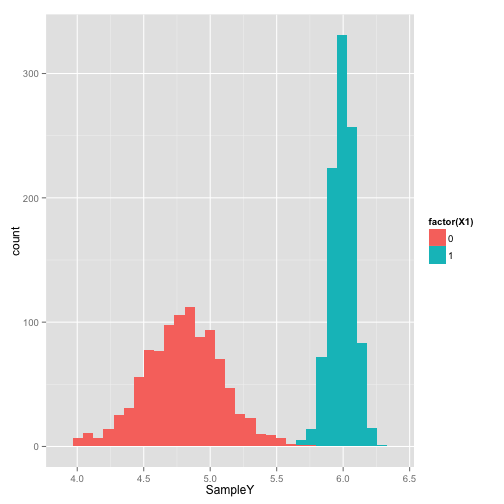
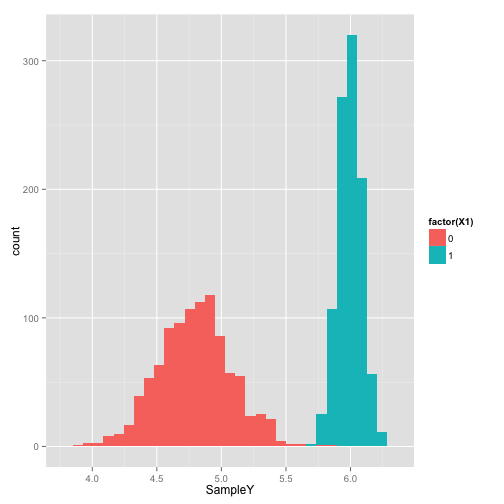
started writing. let's test latex

diff --git a/_layouts/post.html b/_layouts/post.html
@@ -1,8 +1,12 @@
 ---
 layout: layout
 ---
-
-<section class="content">
+<script type="text/x-mathjax-config">
+MathJax.Hub.Config({
+  tex2jax: {inlineMath: [['$','$'], ['\\(','\\)']]}
+});
+</script>
+<script type="text/javascript" src="path-to-mathjax/MathJax.js?config=TeX-AMS-MML_HTMLorMML"></script><section class="content">
   <h1>
     {{ page.title }}
   </h1>

diff --git a/_posts/2014-07-06-bart-machine-simple-examples-discrete.md b/_posts/2014-07-06-bart-machine-simple-examples-discrete.md
@@ -1,23 +1,26 @@
 ---
-title: "Bayesian Trees: Looking for Sensible Results in Simple Examples"
+title: "Bayesian Trees: Looking for Sensible Results in Simple Examples [source]()"
 layout: post
 category: posts
 draft: true
 ---
-  
 
 
 
-# Simplest possible example:
 
+The Bayesian Additive Regression Trees (BART) model consists of a sum of trees, along with values at the leaf notes. I'm attracted to the method as a way to obtain similar out-of-the-box (no hand tuning or model selection needed) performance to common machine learning methods (random forests, gradient boosting machines, etc.), but also provide **uncertainties** along with each individual prediction. BART is an MCMC method, meaning that we receive a series of draws from the posterior distribution, each of which is a set of tree structures along with values at the leaf nodes.
 
-```r
-set.seed(0)
-sigmaTrue <- 1
-train <- data.frame(X1 = sample(c(rep(0, 10), rep(1, 100))))
-test <- unique(train)
-y <- ifelse(train$X1 == 0, 5, 6) + rnorm(nrow(train)) * sigmaTrue
-```
+The purpose of this post is to explore how appropriate the resulting uncertainties seem in a few simple simulated examples where we know the truth. For this, I use the [`bartMachine`]() implementation by SOMEONE and SOMEONEELSE. The above description of the algorithm might be enough to follow along with this post, but I highly recommend reading at least the first page of the package authors' [vignette](), which provides a very clear description of the algorithm.
+
+### Simplest possible example:
+
+In this example, $X_1$ (which is $0$ for 10 observations and $1$ for 100) is the only input, and 
+
+$$y = X_1 + 5 + \mathcal{N}(0,1)$$
+
+The model assumes that the noise is independent of everything, which is consistent with the example. You can see that the mean of $y$ depends on $X_1$, and that we have much more data with $X_1=1$ than $X_1=0$ 
+
+![plot of chunk unnamed-chunk-2](/images/posts/bart-machine-simple-examples-discrete/unnamed-chunk-2.png) 
 
 
 # Default bartMachine (behavior would be the same with only one tree)
@@ -49,7 +52,7 @@ mean(sigmaPosterior)
 ```
 
 ```
-## [1] 0.8619
+## [1] 0.868
 ```
 
 ```r
@@ -78,6 +81,10 @@ ggplot(sampleDF) + geom_histogram(aes(fill = factor(X1), x = SampleY))
 
 ```
 ## stat_bin: binwidth defaulted to range/30. Use 'binwidth = x' to adjust this.
+```
+
+```
+## Warning: position_stack requires constant width: output may be incorrect
 ```
 
 ![plot of chunk unnamed-chunk-4](/images/posts/bart-machine-simple-examples-discrete/unnamed-chunk-42.png) 
@@ -198,9 +205,9 @@ bartMachine:::get_tree_depths(bartFitByNumTrees[["100"]])[1, ]
 ```
 
 ```
-##   [1] 1 2 1 2 2 2 1 2 2 1 1 2 1 1 1 1 1 2 1 1 1 1 2 2 2 1 1 2 1 1 1 1 1 1 1
-##  [36] 1 1 1 1 1 1 1 2 2 2 1 1 1 1 1 1 1 1 1 2 0 1 2 1 1 2 1 1 2 1 2 1 1 1 1
-##  [71] 2 2 1 1 1 2 1 2 1 2 1 2 1 1 1 1 2 1 1 2 2 1 1 1 1 1 2 1 2 1
+##   [1] 1 2 1 2 1 1 1 1 2 1 1 1 2 2 1 2 1 1 1 2 1 1 2 2 1 1 1 1 2 2 2 1 1 2 1
+##  [36] 1 1 1 1 1 1 1 1 2 1 1 2 1 2 2 1 1 1 1 1 1 1 1 2 1 2 1 2 2 1 1 2 1 1 1
+##  [71] 1 1 1 2 1 1 1 1 1 1 1 1 1 1 1 2 1 2 1 2 2 2 1 1 1 1 1 1 0 1
 ```
 
 
